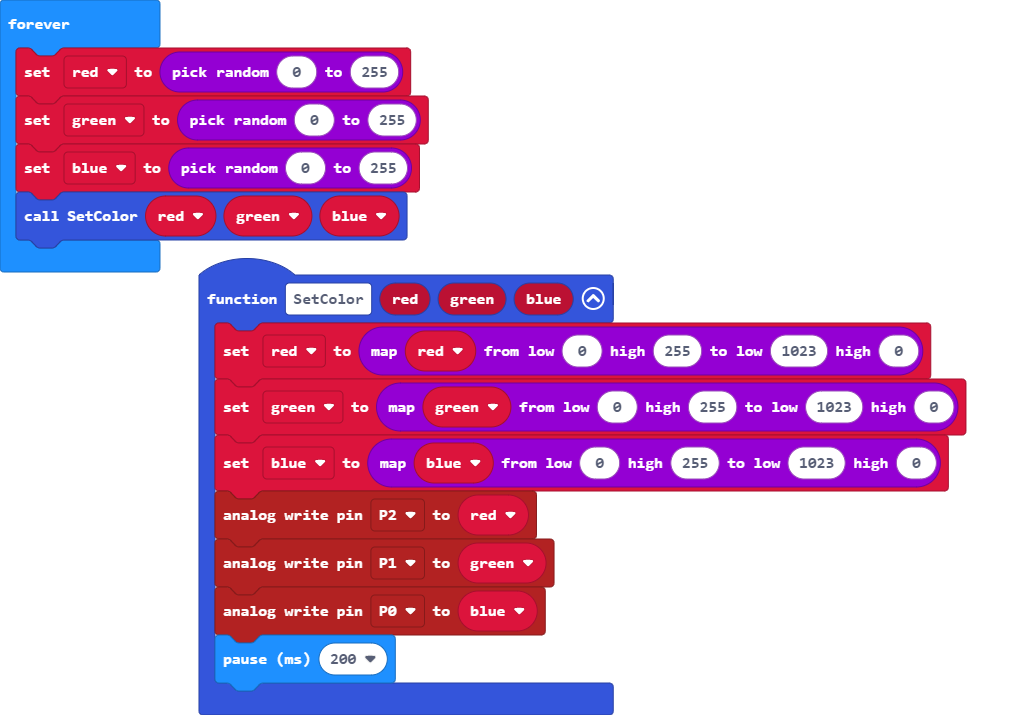
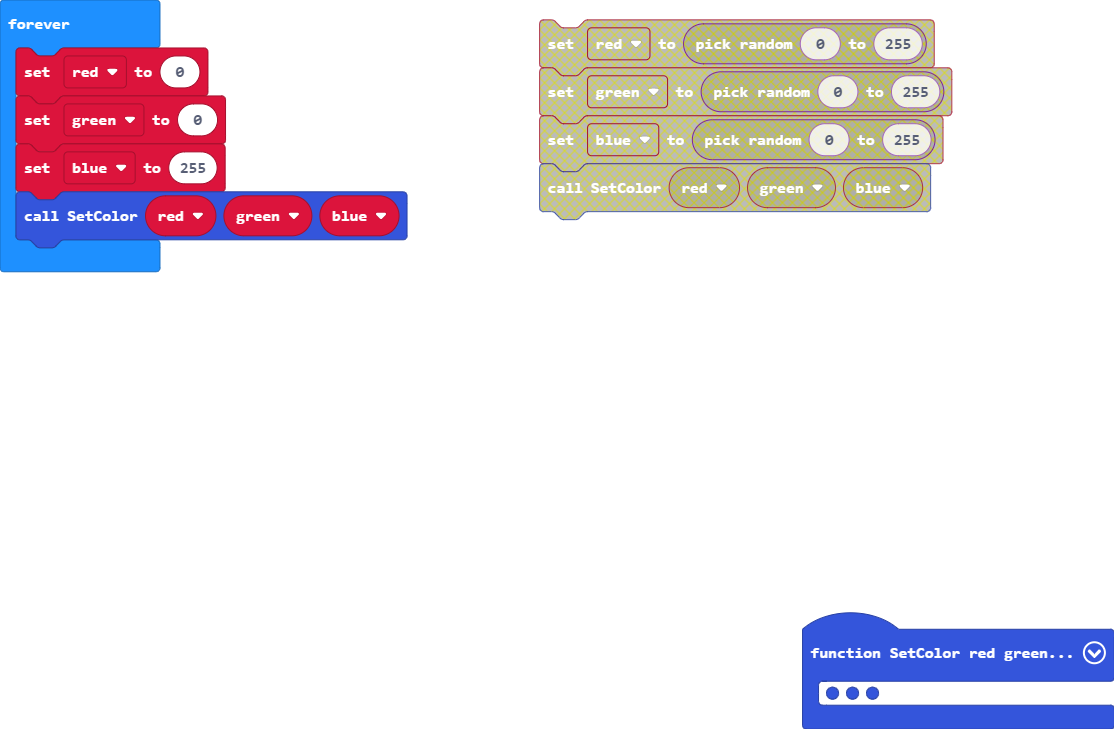
Update main.blocks, main.ts

diff --git a/main.ts b/main.ts
@@ -5,14 +5,14 @@ function SetColor (red: number, green: number, blue: number) {
     red = Math.map(red, 0, 255, 1023, 0)
     green = Math.map(green, 0, 255, 1023, 0)
     blue = Math.map(blue, 0, 255, 1023, 0)
-    pins.analogWritePin(AnalogPin.P2, red)
+    pins.analogWritePin(AnalogPin.P0, red)
     pins.analogWritePin(AnalogPin.P1, green)
-    pins.analogWritePin(AnalogPin.P0, blue)
+    pins.analogWritePin(AnalogPin.P2, blue)
     basic.pause(200)
 }
 basic.forever(function () {
-    red = randint(0, 255)
-    green = randint(0, 255)
-    blue = randint(0, 255)
+    red = 0
+    green = 0
+    blue = 255
     SetColor(red, green, blue)
 })
